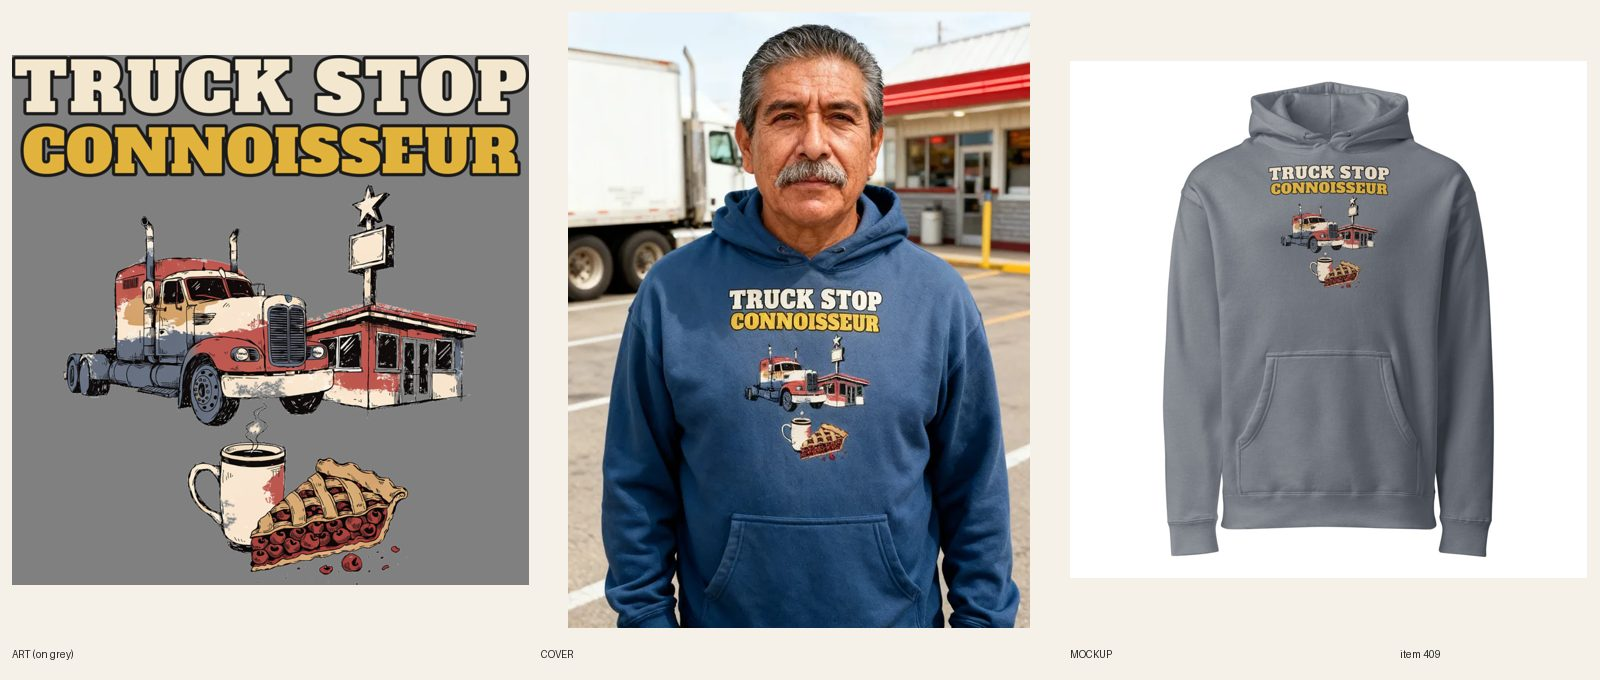
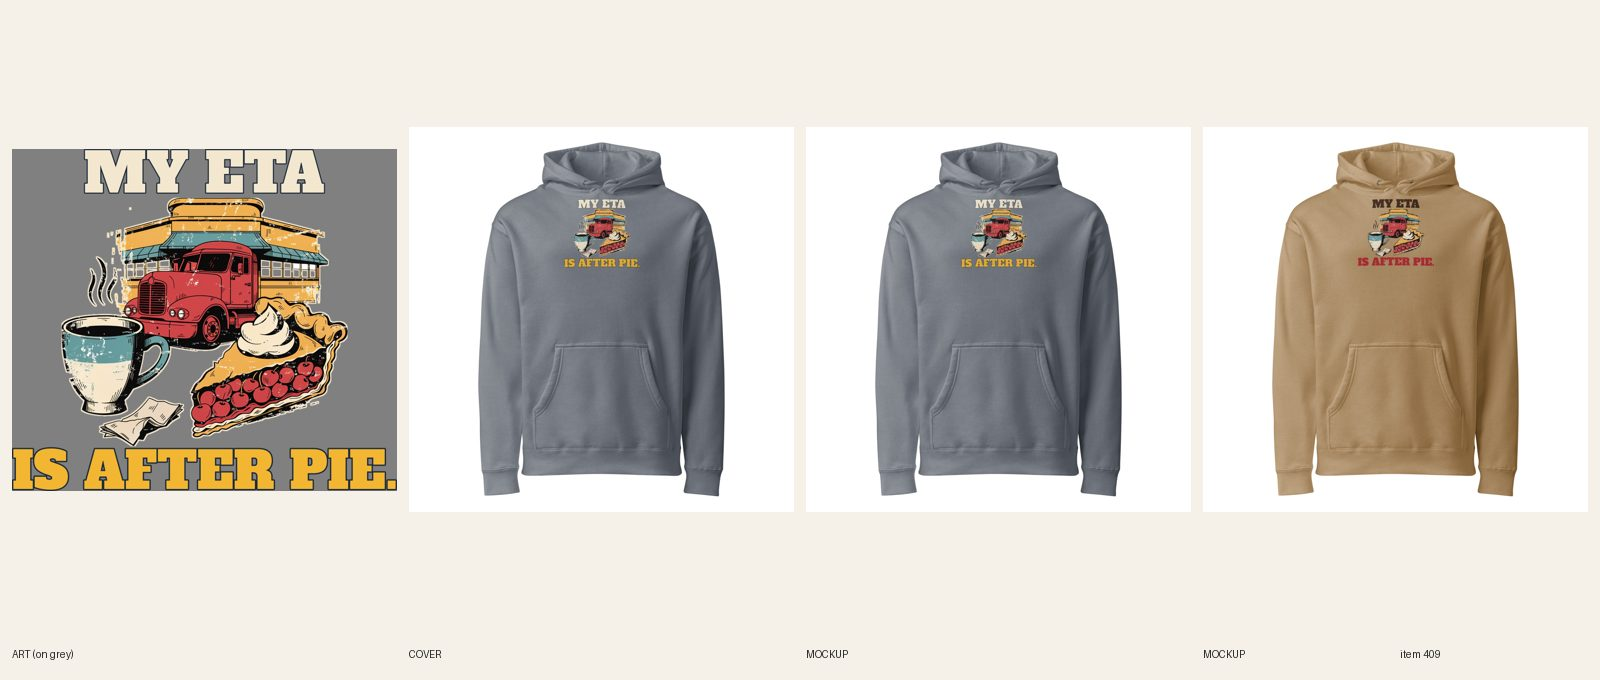
[E] review 409 redid #409 Men's Trucker heavyweight hoodie (line + type: MY ETA IS AFTER PIE., new semi + diner + pie art, Storm Blue + Sandstone files, 12/12 synced, copy updated, plain product shot). REVIEW. fal $0.04.

diff --git a/docs/pipeline/409-heavyweight-hoodie-truck-stop-connoisseur.md b/docs/pipeline/409-heavyweight-hoodie-truck-stop-connoisseur.md
@@ -1,4 +1,4 @@
-status: REDO
+status: REVIEW
 lane: E
 type: new
 id: 409
@@ -32,3 +32,4 @@ kd: 32
 - 2026-10-17 20:56 UTC builder [E]: REVIEW. REDO note 1 done: new cover from the Storm Blue Printful mockup as --design, same man, hands empty, nothing held; whole print visible, truck stop scene kept. 1 image ~$0.06.
 - 2026-10-17 21:19 UTC director: LIVE. sheet seen: semi, diner, pie and coffee, TRUCK STOP CONNOISSEUR reads; cover man 60s at a truck stop, hands empty (REDO fixed). ACTIVE + Online Store, Headless, Google & YouTube; audit --handle PASS.
 - 2026-10-18 17:22 UTC director: QUALITY RESET grade C (new line + type), REDO. The product stays ACTIVE (same handle, URL, title keyword). 1. Line (R3.12, quality-reset 'Lines'): "TRUCK STOP / CONNOISSEUR": Descriptive label, no twist. Write 5 candidates, keep the one a stranger laughs at in 3 seconds without backstory; kill lines that only describe the picture; if none of the 5 is funny, PARK it. 2. Quality reset type bar (docs/backlog/quality-reset.md, 'The new bar'): headline at least 90% of the art width, heavy, colors pulled from the art; second line at least 45% of the headline's height, never a thin script on a dark or mid garment; use the lettering as a shape (arch, stacked lockup, words breaking into the art), not a plain bar above and a script line below; no font used on more than 1 in 6 of the last 30 designs. 3. Keep the art if it carries the new line, else one new illustration (R4/R5). New print means a new cover per R6.10, copy line one rewritten for the new joke (R8.3), and a fresh review sheet (R7.7). While quality-reset.md says PAUSED, only lane A builds, and only the samples step 2 names.
+- 2026-10-20 03:57 UTC builder [E]: REDO 409 (C grade, line + type) done on the existing product (stays ACTIVE, handle unchanged). 5 candidates: "MY ETA IS AFTER PIE."; "Pie Is A Delivery Window"; "Truck Stop Connoisseur" (old); "Parked For The Pie"; "Rated 5 Stars By My Cholesterol". Kept MY ETA / IS AFTER PIE. (trucker deadpan, 3 seconds). One new Recraft call ($0.04): red semi at a diner, coffee mug, cherry pie, no words. Alfa Slab One: MY ETA about 84% of the art width, IS AFTER PIE. full print width. Storm Blue file 1090146695 (cream + mustard, dark outline, thin cream halo); Sandstone file 1090146765 (dark brown + cherry red, dark fill: light file logged for Sandstone). FW 1500 TOP 0, 12/12 synced on the right file per color, back logo kept. Fronts replaced in place, alts updated, title/SEO/copy/FAQs rewritten, ink named from the mockups. Cover: handle added to retired-covers.json (plain product shot). Phone-size read OK on both. audit --handle PASS after trimming the meta to under 155; astro build OK. fal $0.04. Sheet docs/review/409.jpg.

diff --git a/docs/intake-log.md b/docs/intake-log.md
@@ -1,4 +1,5 @@
 2026-10-20 03:47 UTC — [H] Helper run: audit 607 products, 0 errors, 30 warnings (no scripted ERRORs to fix). Category check: 0 products without a Shopify category. Site check: 3 newest LIVE pages (#618, #578, #548) all 200. Stuck-work check: nothing BUILDING, all locks under 2h. Telegram: no new messages. Announcement bar already on holiday line. Daily summary not due (before 12:00 UTC). Lock released.
+2026-10-20 03:57 UTC — [E] Builder run: redid #409 Men's Trucker heavyweight hoodie (line + type: MY ETA IS AFTER PIE., new semi + diner + pie art, Storm Blue + Sandstone files, 12/12 synced, copy updated, plain product shot). REVIEW. fal $0.04.
 RUNNING lane B since 2026-10-20 03:28 UTC
 2026-10-20 03:49 UTC — [E] Builder run: redid #395 Women's Teacher crewneck (line + type: NO, WE CAN'T GO OUTSIDE., new bandaged-apple art, Navy + Sand files, 12/12 synced, copy updated, plain product shot). REVIEW. fal $0.04.
 2026-10-20 03:56 UTC — [B] Builder run: redid #404 Unisex Y2K video game hoodie (line + type: MAIN QUEST / POSTPONED., same art, Bevan, Navy + Sand light files, 12/12 synced). REVIEW. fal $0.
